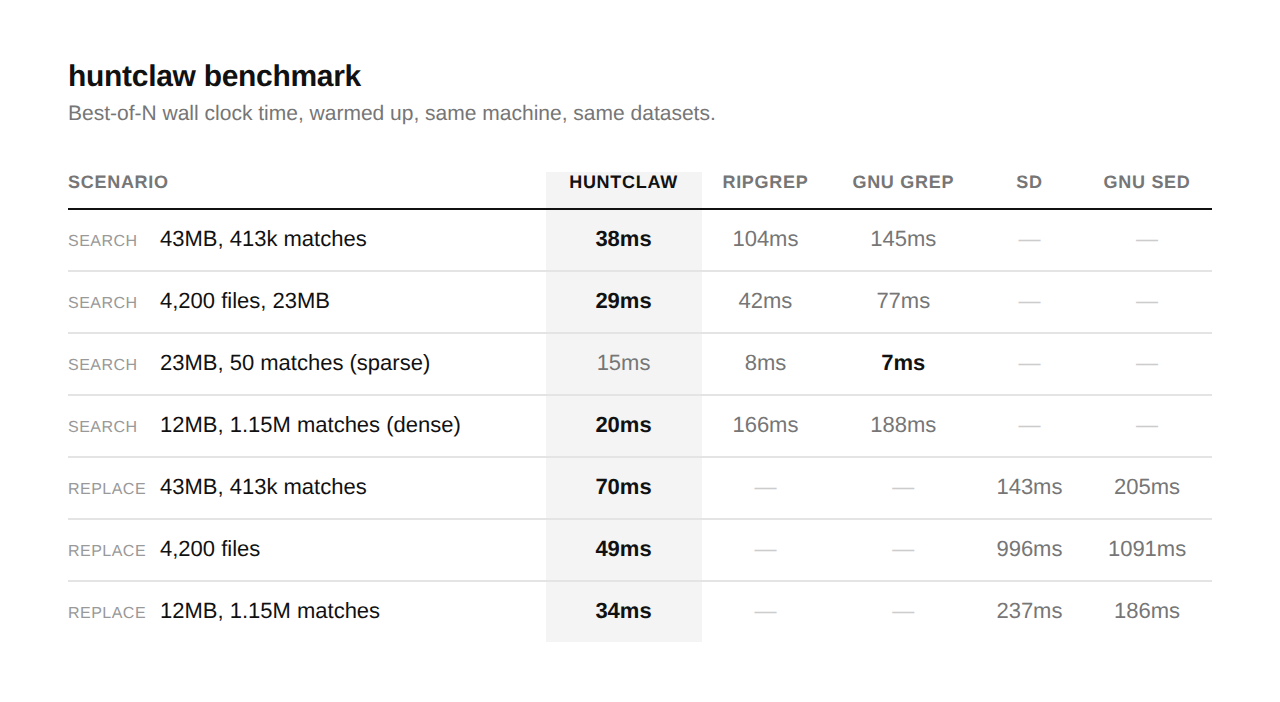
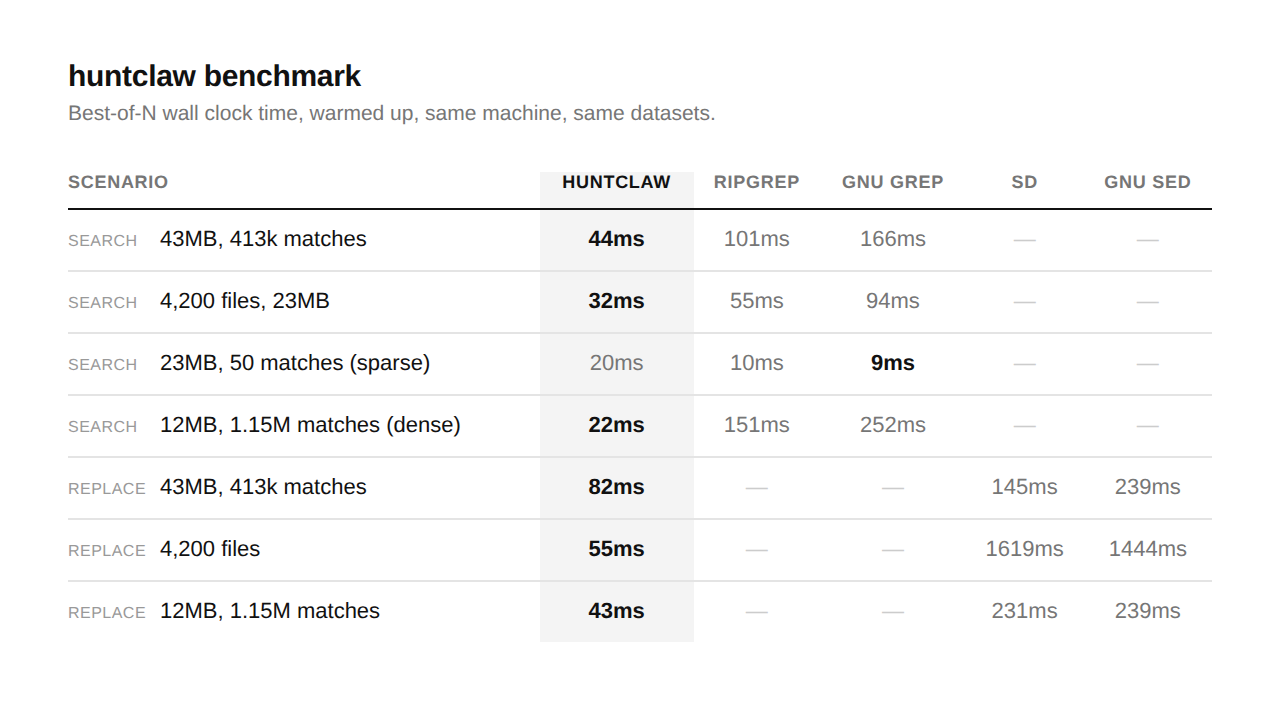
docs: refresh main benchmark for v0.4, add v0.3 vs v0.4 comparison

diff --git a/README.md b/README.md
@@ -47,6 +47,21 @@ Full methodology and raw numbers are reproducible: generate the datasets
 described in the table, run each tool with warmup, take the minimum of
 several runs. You can run the benchmark with 'huntclaw_bench.py' file (more new tests, for trust)
 
+## New benchmarks
+
+Version-to-version comparisons, run against the same official
+`huntclaw_bench.py` datasets. This section holds the latest release
+comparison; older ones are replaced as new versions ship.
+
+![huntclaw v0.3 vs v0.4: search and replace timings before and after the exact-size replace buffer](assets/v0.3-vs-v0.4.png)
+
+v0.4 adds three flags — `-l`/`--line` for grep-style match output,
+`--max-depth` to cap directory recursion, and `--stats-only` for a
+JSON summary — plus one performance change: the replace buffer is now
+sized exactly instead of padded by 25% whenever a replacement can't grow
+past a single match's worth of bytes. Same-length replacements are where
+it shows most, since they never needed the padding in the first place.
+
 ## Usage
 
 ```
